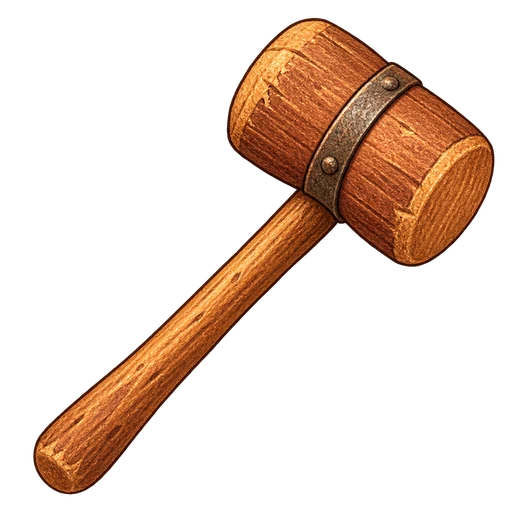
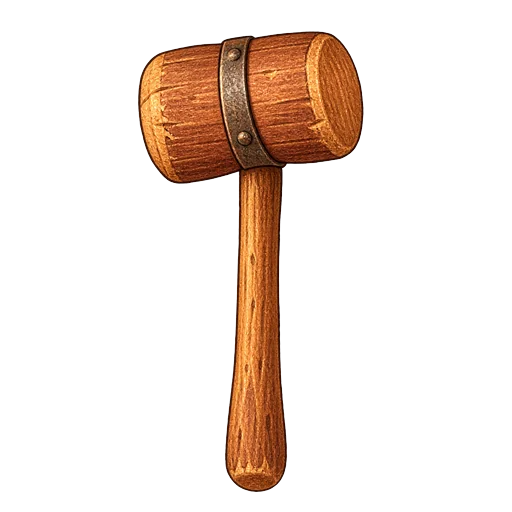
Act 1: Pip on his stool swings onto the toy, as in Chief Toy Officer; the toys you make pile up under the tree
Chief Toy Officer's swing frames, hammers and step stool; the strike is aimed so the hammer
lands on the toy's top, with a spin after each toy. The pile shows the toys you made (keeping
its variety); once the Wrapping Station is bought it stands in the line and every other toy
arrives wrapped. Act 2's clerk gets the same swing (new frames) and stamps down onto the file.

Fixes #3

diff --git a/game/src/stage.js b/game/src/stage.js
@@ -7,7 +7,7 @@ import * as R from './rules.js';
 export const W = 800, H = 600;
 const px = (x) => x * W / 100, py = (y) => y * H / 100;
 let cv, cx, dpr = 1, cssW = 1, cssH = 1;
-const fx = { parts: [], nums: [], rings: [], splats: [], squash: 0, swing: -1, swingT: 0, bob: 0, shake: 0, eyeTo: [0.5, 0.5], eyeAt: [0.5, 0.5], blink: 0,
+const fx = { spinAt: -9, popAt: -9, parts: [], nums: [], rings: [], splats: [], squash: 0, swing: -1, swingT: 0, bob: 0, shake: 0, eyeTo: [0.5, 0.5], eyeAt: [0.5, 0.5], blink: 0,
   flash: 0, presents: [], bellAt: null, recoil: 0, arrivals: {}, dim: 0, noelBright: 0, wakeT: -1, transition: null };
 let spot = { u: 0.1, v: 0.1, from: [0.1, 0.1], to: [0.1, 0.1], t: 0, resting: true };
 let tNow = 0;
@@ -129,22 +129,61 @@ function placeFigures(c, act, list, box, row, S, noel) {
 }
 
 // ---------- Pip and his tool ----------
-function drawPipSwing(c, act, S) {
-  const set = act === 1 ? 'pip-swing' : 'pip-clerk-swing'; const frame = fx.swing >= 0 ? Math.min(3, fx.swing) : 0;
-  const im = img(`sprites/${set}/${frame}`) || img(`sprites/${set}/0`); const fallback = act === 2 ? img('shared/pip-clerk') : null;
-  const x = px(12), w = px(40), y = py(98) - w; // square canvas, 40% wide, foot at 98
-  if (!im) { if (fallback) drawFit(c, fallback, px(20), py(45), px(24), py(53)); return; }
-  c.drawImage(im, x, y, w, w);
-  const piv = data(`sprites/${set}/pivots`); const fr = piv && piv.frames && piv.frames[frame]; if (!fr) return;
-  const s = w / 512; const tool = R.toolIdx(S); const hand = img(toolHandFile(act, tool)); if (!hand) return;
-  let gx = 256, gy = 380, dist = 300, axis = 0, target = 150, ang = fr.angle || 0;
-  if (act === 1) { const h = data('act1/hammers')?.hammers?.[tool + 1]; if (h) { [gx, gy] = h.grip; dist = Math.hypot(h.head[0] - gx, h.head[1] - gy); axis = h.axisAngle || 0; } }
-  else { const st = data('act2/stamps')?.['stamp-' + (tool + 1)]; target = 118; ang = ang * 0.12; if (st) { [gx, gy] = st.grip; dist = Math.hypot(st.face[0] - gx, st.face[1] - gy); } }
-  const ts = s * target / dist; // every tool the same length in the fist
-  c.save(); c.translate(x + fr.pivot[0] * s, y + fr.pivot[1] * s); c.rotate((ang - axis) * Math.PI / 180);
-  c.drawImage(hand, -gx * ts, -gy * ts, 512 * ts, 512 * ts); c.restore();
-  if (fr.fist) { const [fx0, fy0, fw, fh] = fr.fist; c.drawImage(im, fx0 / 512 * im.width, fy0 / 512 * im.height, fw / 512 * im.width, fh / 512 * im.height, x + fx0 * s, y + fy0 * s, fw * s, fh * s); }
+// Pip on his step stool, swinging the current tool onto the job (Chief Toy Officer's swing): the frames' pivots give the
+// fist; on the strike the tool is aimed so its head (hammer) or face (stamp) lands on the job's top, and the job sits where it can.
+const POSE = {
+  1: { foot: 86.2, stool: [23.6, 17, 98.5], toyFoot: 68.5, toyW: 14, toyRange: [46, 62], kind: 'hammer', len: 0.35 },
+  2: { foot: 81.6, stool: [23.6, 17, 93.8], toyFoot: 69, toyW: 11.5, toyRange: [42, 60], kind: 'stamp', len: 0.25 },
+};
+const SWING = [[0, 1], [45, 2], [125, 3], [190, -1]]; // ms -> frame
+function pivotsOf(set) { const d = data(`sprites/${set}/pivots`); if (!d || !d.frames) return null;
+  return d.frames.map((f) => ({ fist: f.pivot || (f.fist && f.fist.length === 2 ? f.fist : null), crop: f.fistCrop || (f.fist && f.fist.length === 4 ? f.fist : null), angle: f.angle || 0 })); }
+function toolSpec(act, tool) {
+  if (act === 1) { const h = data('act1/hammers')?.['hammer-' + (tool + 1)]; return h ? { grip: h.grip, tip: h.head, tipEdge: h.headBottom ?? h.head[1] + 60 } : { grip: [256, 435], tip: [256, 100], tipEdge: 160 }; }
+  const st = data('act2/stamps')?.['stamp-' + (tool + 1)]; return st ? { grip: st.grip, tip: st.face, tipEdge: st.face[1] } : { grip: [254, 219], tip: [254, 480], tipEdge: 480 };
 }
+// where the job sits and the strike angle, for this act, tool and job
+let poseCache = null;
+function poseLayout(act, S) {
+  const P = POSE[act]; const tool = R.toolIdx(S); const key = act + '|' + tool + '|' + S.job;
+  if (poseCache && poseCache.key === key) return poseCache;
+  const set = act === 1 ? 'pip-swing' : 'pip-clerk-swing'; const pv = pivotsOf(set); const w = px(40), x = px(12), y = py(P.foot) - w * (507 / 512); const k = w / 512; // foot = the lowest opaque pixel (row 507)
+  const pipH = w * 0.986, len = P.len * pipH; const spec = toolSpec(act, tool);
+  const jim = img(jobFile(act, S.job)); const jw = px(P.toyW), jh = jim ? jw * jim.height / jim.width : jw; const top = py(P.toyFoot) - jh * 0.92;
+  let cx = px((P.toyRange[0] + P.toyRange[1]) / 2), strike = act === 1 ? 85 : 0;
+  const f2 = pv && pv[2] && pv[2].fist;
+  if (f2) {
+    const fxp = x + f2[0] * k, fyp = y + f2[1] * k;
+    if (P.kind === 'hammer') { // head comes down on the top: the head's centre a little above the top
+      const headHalf = (spec.tipEdge - spec.tip[1]) / (spec.grip[1] - spec.tip[1]) * len; const aimY = top - headHalf * 0.3; const dy = fyp - aimY;
+      const dx = Math.sqrt(Math.max(0, len * len - dy * dy)); cx = Math.min(px(P.toyRange[1]), Math.max(px(P.toyRange[0]), fxp + dx)); strike = Math.atan2(cx - fxp, dy) * 180 / Math.PI;
+    } else { // the stamp's face comes down onto the top of the file
+      const aimY = top + jh * 0.18; const dy = aimY - fyp; const dx = Math.sqrt(Math.max(0, len * len - dy * dy));
+      cx = Math.min(px(P.toyRange[1]), Math.max(px(P.toyRange[0]), fxp + dx)); strike = -Math.atan2(cx - fxp, Math.max(1, dy)) * 180 / Math.PI;
+    }
+  }
+  poseCache = { key, x, y, w, k, len, spec, set, pv, cx, strike, foot: py(P.toyFoot), jw, jh };
+  return poseCache;
+}
+function swingFrame() { if (fx.swing < 0) return 0; const t = fx.swingT * 1000; let f = 0; for (const [ms, fr] of SWING) if (t >= ms) f = fr; return f < 0 ? 0 : f; }
+function drawStool(c, act) { const P = POSE[act]; const st = img('act1/stool'); if (!st) return; const w = px(P.stool[1]), h = w * st.height / st.width; c.drawImage(st, px(P.stool[0]), py(P.stool[2]) - h, w, h); }
+function drawPipSwing(c, act, S) {
+  const L = poseLayout(act, S); const frame = swingFrame();
+  const im = img(`sprites/${L.set}/${frame}`) || img(`sprites/${L.set}/0`);
+  if (!im) { const fb = act === 2 ? img('shared/pip-clerk') : null; if (fb) drawFit(c, fb, px(20), py(40), px(24), py(53)); return; }
+  c.drawImage(im, L.x, L.y, L.w, L.w);
+  const fr = L.pv && L.pv[frame]; const hand = img(toolHandFile(act, R.toolIdx(S))); if (!fr || !fr.fist || !hand) return;
+  let ang = frame === 2 ? L.strike : frame === 3 ? L.strike + (act === 1 ? 8 : -6) : (act === 1 ? fr.angle : fr.angle * 0.15);
+  const sp = (tNow - fx.spinAt) / 0.38; if (act === 1 && sp >= 0 && sp < 1 && frame === 0) ang += 360 * (1 - (1 - sp) ** 2); // the spin after a finished toy
+  const sp1 = L.spec; const hs = L.len / Math.abs(sp1.tip[1] - sp1.grip[1]);
+  c.save(); c.translate(L.x + fr.fist[0] * L.k, L.y + fr.fist[1] * L.k); c.rotate(ang * Math.PI / 180);
+  c.drawImage(hand, -sp1.grip[0] * hs, -sp1.grip[1] * hs, 512 * hs, 512 * hs); c.restore();
+  if (fr.crop) { const [cx0, cy0, cw, ch] = fr.crop, sx = im.width / 512; c.drawImage(im, cx0 * sx, cy0 * sx, cw * sx, ch * sx, L.x + cx0 * L.k, L.y + cy0 * L.k, cw * L.k, ch * L.k); }
+}
+function drawJobAtPose(c, act, S, key) { const L = poseLayout(act, S); const im = img(key || jobFile(act, S.job)); if (!im) return; const sq = fx.squash;
+  const pop = (tNow - fx.popAt) / 0.42; const lift = pop >= 0 && pop < 1 ? Math.sin(pop * Math.PI) * py(4) : 0; const ps = pop >= 0 && pop < 1 ? 1 + 0.15 * Math.sin(pop * Math.PI) : 1;
+  c.save(); c.translate(L.cx, L.foot - lift); c.scale((1 + sq * 0.12) * ps, (1 - sq * 0.16) * ps); c.drawImage(im, -L.jw / 2, -L.jh, L.jw, L.jh); c.restore(); }
+export const jobTop = (act, S) => { const L = poseLayout(act, S); return [L.cx, L.foot - L.jh * 0.6]; };
 function drawPipStill(c, key, S) { const im = img(key); const b = fx.bob; c.save(); const x = px(0), y = py(48), w = px(16), h = py(50);
   c.translate(x + w / 2, y + h); c.scale(1 + b * 0.04, 1 - b * 0.05); drawFit(c, im, -w / 2, -h, w, h); c.restore(); }
 
@@ -160,8 +199,15 @@ function treeLights(c, S, allOn) {
       r(); }
   }
 }
-function pileSlots(n) { let k = 0; for (let s = 1; s <= 40; s++) if (n >= 2 ** (s / 4)) k = s; return k; }
-const PILE = (() => { const r = rand(42); const a = []; for (let i = 0; i < 40; i++) { const row = Math.floor(i / 8); a.push([66 + 4 + (i % 8) * 3.8 + (row % 2) * 1.9 + r() * 1.2, 97 - row * 3.4 - r() * 1, 1 + (i * 7) % 6, 4.2 + r() * 1.6]); } return a; })();
+function pileCount(n) { let k = 0; while (k < 40 && n >= 2 ** ((k + 1) / 4)) k++; return k; }
+const PILE = (() => { const x0 = 66, x1 = 100, y1 = 99; const rows = [[12, 0], [10, 1], [8, 2], [6, 3], [4, 4]]; const slots = []; let k = 0;
+  for (const [n, r] of rows) { const rowW = (x1 - x0) * (1 - r * 0.13), left = x0 + ((x1 - x0) - rowW) / 2 + 1;
+    for (let i = 0; i < n; i++) { const j = ((k * 37) % 7) / 7 - 0.5; slots.push({ cx: left + (rowW - 2) * ((i + 0.5) / n) + j * 0.8, foot: y1 - 0.5 - r * 3.6 + Math.abs(j) * 0.6, size: 5.2 - r * 0.35 + (((k * 53) % 5) / 5) * 1.6, r, i, n }); k++; } }
+  return slots.map((s, i) => [s.r * 100 + Math.abs(s.i - (s.n - 1) / 2), i]).sort((a, b) => a[0] - b[0]).map((a) => slots[a[1]]).slice(0, 40); })();
+function pileImg(entry, i) { return entry >= 100 ? img('act1/presents-' + (1 + (i % 6))) : img(jobFile(1, entry)); }
+function drawPile(c, S, shown) { const list = S.pileToys && S.pileToys.length ? S.pileToys : null;
+  for (let i = shown - 1; i >= 0; i--) { const sl = PILE[i]; const e = list ? list[i % list.length] : 100; const im = pileImg(e, i); if (!im) continue;
+    const w = px(sl.size), h = w * im.height / im.width; c.drawImage(im, px(sl.cx) - w / 2, py(sl.foot) - h, w, h); } }
 function drawWorkshop(c, S, o) {
   cover(c, img('act1/workshop-bg'));
   if (fx.dim) { c.fillStyle = `rgba(5,5,20,${0.55 * fx.dim})`; c.fillRect(0, 0, W, H); }
@@ -184,12 +230,15 @@ function drawWorkshop(c, S, o) {
   if (S.rank >= 3 || S.woke) { if (fx.wakeT >= 0 && tNow - fx.wakeT < 1.2) puff(c, px(92), py(16), tNow - fx.wakeT); drawNoel(c, 1, S); }
   // bench
   const bench = img('act1/bench'); if (bench) { const w = px(40), h = w * bench.height / bench.width; c.drawImage(bench, px(36), py(91) - h, w, h); }
-  // pile
-  const shown = o.pileOverride ?? pileSlots(S.pile || 0);
-  for (let i = 0; i < shown; i++) { const [x, y, k, s] = PILE[i]; const im = img('act1/presents-' + k); if (im) c.drawImage(im, px(x) - px(s) / 2, py(y) - px(s), px(s), px(s)); }
+  // the wrapping station joins the line once it's bought: toys come out of it as presents
+  if (S.own && S.own.includes('wrappingStation')) { const ws = img('act1/upg-wrapping-station'); if (ws) { const w = px(9); c.drawImage(ws, px(62.5), py(93) - w, w, w); } }
+  // the pile: the toys you made (and presents, once wrapped)
+  const shown = o.pileOverride ?? pileCount(S.pile || 0);
+  drawPile(c, S, shown);
   if ((S.pile || 0) > 990 && shown >= 40) tag(c, px(92), py(78), S.pile);
   // the toy on the bench
-  if (!o.noToy) drawJobOnSpot(c, jobFile(1, S.job), 45, 68.5, 14);
+  drawStool(c, 1);
+  if (!o.noToy) drawJobAtPose(c, 1, S);
   drawPipSwing(c, 1, S);
 }
 function drawBob(c, key, [x, y, w, h], i, noel) { const b = noel ? Math.sin(tNow * 6 + i) * 0.6 : Math.abs(Math.sin(tNow * 2.4 + i)) * -2.2; drawFit(c, img(key), px(x), py(y) + b, px(w), py(h)); }
@@ -206,9 +255,10 @@ function drawListRoom(c, S, o) {
   drawRails(c, 2, S, o.legacy);
   const desk = img('act2/clerk-desk'); if (desk) { const w = px(40), h = w * desk.height / desk.width; c.drawImage(desk, px(36), py(91) - h, w, h); }
   // the file on the blotter
-  if (!o.noToy) drawJobOnSpot(c, o.fileKey || jobFile(2, S.job), 45.5, 69, 13);
+  if (!o.noToy) drawJobAtPose(c, 2, S, o.fileKey);
   for (const s of fx.splats) { const k = (tNow - s.t) / 0.6; if (k > 1) continue; c.save(); c.translate(s.x, s.y); c.rotate(s.rot); c.globalAlpha = 1 - k * k; const sc = 1 + (1 - ease(k * 3)) * 0.5; c.scale(sc, sc);
     c.font = '900 30px Nunito'; c.textAlign = 'center'; c.textBaseline = 'middle'; c.lineWidth = 4; c.strokeStyle = s.nice ? '#1d6a32' : '#8a1414'; c.strokeRect(-62, -20, 124, 40); c.fillStyle = s.nice ? '#22803a' : '#a51c1c'; c.fillText(s.nice ? 'NICE' : 'NAUGHTY', 0, 2); c.restore(); }
+  drawStool(c, 2);
   drawPipSwing(c, 2, S);
   // the Nice dial
   const m = R.mul(S); const pct = Math.round(m.nice * 100);
@@ -351,18 +401,18 @@ function drawLucky(c, S, act) {
 export function onTap(S, act, x, y, value, o = {}) {
   fx.squash = 1; fx.swing = 0; fx.swingT = 0; fx.bob = 1; fx.eyeTo = [x / W, y / H]; fx.recoil = 1;
   const big = o.spot; const n = big ? 14 : 7;
-  const tx = act <= 2 ? px(52) : x, ty = act <= 2 ? py(56) : y;
+  const jt = act <= 2 ? jobTop(act, S) : null; const tx = jt ? jt[0] : x, ty = jt ? jt[1] : y;
   for (let i = 0; i < n && fx.parts.length < 40; i++) { const a = Math.random() * Math.PI * 2, s = 80 + Math.random() * 160 * (big ? 1.6 : 1);
     fx.parts.push({ x: tx, y: ty, vx: Math.cos(a) * s, vy: Math.sin(a) * s - 80, t: 0, life: 0.5 + Math.random() * 0.3, col: act === 4 ? '#7affc0' : act === 3 ? '#ffd76a' : act === 2 ? '#fff4c8' : '#ffcf6a' }); }
   fx.nums.push({ x: tx + (Math.random() * 30 - 15), y: ty - 20, t: 0, txt: '+' + fmtShort(value), big });
   if (fx.nums.length > 14) fx.nums.shift();
-  if (act === 2) fx.splats.push({ x: px(52) + Math.random() * 30 - 15, y: py(62) + Math.random() * 10, t: tNow, rot: Math.random() * 0.5 - 0.25, nice: Math.random() < R.mul(S).nice });
+  if (act === 2) fx.splats.push({ x: jobTop(2, S)[0] + Math.random() * 20 - 10, y: jobTop(2, S)[1] + 6 + Math.random() * 8, t: tNow, rot: Math.random() * 0.5 - 0.25, nice: Math.random() < R.mul(S).nice });
   if (fx.splats.length > 4) fx.splats.shift();
   if (act === 3) { fx.bellAt = { x, y, t: tNow }; fx.rings.push({ x, y, t: 0, col: big ? '255,220,90' : '255,214,120', max: big ? 90 : 50 }); }
   if (act === 4) fx.rings.push({ x, y, t: 0, col: '90,255,160', max: 70 });
   if (o.heavy) fx.shake = 0.25;
 }
-export function onJobDone(act, n) { fx.flash = 1; fx.presents.push({ t: 0, n }); if (fx.presents.length > 3) fx.presents.shift(); }
+export function onJobDone(act, n, item) { fx.flash = 1; fx.popAt = tNow; if (n === 1) fx.spinAt = tNow + 0.05; fx.presents.push({ t: 0, n, item }); if (fx.presents.length > 3) fx.presents.shift(); }
 export function onHelperAdded(id) { if (!fx.arrivals[id]) fx.arrivals[id] = tNow; }
 export function onNoelBright() { fx.noelBright = 1; }
 export function onWake() { fx.wakeT = tNow; }
@@ -382,7 +432,7 @@ function drawFx(c, act, dt) {
   // a finished job: a present arcs to the pile (Act 1), a pop elsewhere
   for (const p of fx.presents) p.t += dt; fx.presents = fx.presents.filter((p) => p.t < 0.7);
   for (const p of fx.presents) { const k = p.t / 0.7;
-    if (act === 1) { const im = img('act1/presents-' + (1 + (p.n % 6))); const x = px(52) + (px(84) - px(52)) * k, y = py(56) - Math.sin(k * Math.PI) * 120 + (py(88) - py(56)) * k; if (im) c.drawImage(im, x - 18, y - 18, 36, 36); }
+    if (act === 1) { const im = p.item != null ? pileImg(p.item, p.n) : img('act1/presents-1'); const x0 = poseCache ? poseCache.cx : px(52); const x = x0 + (px(84) - x0) * k, y = py(56) - Math.sin(k * Math.PI) * 120 + (py(88) - py(56)) * k; if (im) { const w = 40, h = w * im.height / im.width; c.drawImage(im, x - w / 2, y - h / 2, w, h); } }
     else { c.save(); c.globalAlpha = 1 - k; c.strokeStyle = act === 4 ? '#7affc0' : '#ffe08a'; c.lineWidth = 5; const [x, y] = act === 2 ? [px(52), py(60)] : act === 3 ? [globeGeom().cx, globeGeom().cy] : [viewport().cx, viewport().cy]; c.beginPath(); c.arc(x, y, 20 + k * 80, 0, Math.PI * 2); c.stroke(); c.restore(); }
     if (p.n > 1 && p.t < 0.6) { c.save(); c.font = '900 26px Nunito'; c.textAlign = 'center'; c.fillStyle = '#ffe27a'; c.strokeStyle = '#3a2415'; c.lineWidth = 4; const t = '×' + fmtShort(p.n); const y = (act <= 2 ? py(46) : py(20)) - p.t * 40; c.strokeText(t, px(52), y); c.fillText(t, px(52), y); c.restore(); }
   }
@@ -390,7 +440,7 @@ function drawFx(c, act, dt) {
 }
 function decay(dt) {
   fx.squash = Math.max(0, fx.squash - dt * 7); fx.bob = Math.max(0, fx.bob - dt * 6); fx.recoil = Math.max(0, fx.recoil - dt * 6); fx.flash = Math.max(0, fx.flash - dt * 4); fx.noelBright = Math.max(0, fx.noelBright - dt * 1.5);
-  if (fx.swing >= 0) { fx.swingT += dt; fx.swing = Math.floor(fx.swingT / 0.04); if (fx.swing > 3) fx.swing = -1; }
+  if (fx.swing >= 0) { fx.swingT += dt; if (fx.swingT >= 0.19) fx.swing = -1; }
   fx.eyeAt[0] += (fx.eyeTo[0] - fx.eyeAt[0]) * Math.min(1, dt * 5); fx.eyeAt[1] += (fx.eyeTo[1] - fx.eyeAt[1]) * Math.min(1, dt * 5);
   if (fx.blink > 0) fx.blink = Math.max(0, fx.blink - dt * 5); else if (Math.random() < dt * 0.25) fx.blink = 1;
   fx.shake = Math.max(0, fx.shake - dt);

diff --git a/game/src/main.js b/game/src/main.js
@@ -117,7 +117,7 @@ function newGame(id) {
   }
   deleteSlot(target); slot = target;
   G = { v: 1, act: 1, S: R.newAct(1), playTime: 0, seen: {}, finished: null, phase: 'play', lastSeen: Date.now(), legacy: {} };
-  G.S.pile = 0; G.begun = false; saveNow(); store.set(slotKey(slot, 'cp1'), G); showActCard();
+  G.S.pile = 0; G.S.pileToys = []; G.begun = false; saveNow(); store.set(slotKey(slot, 'cp1'), G); showActCard();
 }
 function loadSlot(id) {
   const d = saves.load(id); if (!d || !d.S || !d.S.n || !d.act) { toast('This save can\'t be read'); return; }
@@ -211,7 +211,7 @@ let glowHelper = null;
 function handleEvents() {
   const S = G.S; const ev = S.events.splice(0);
   for (const e of ev) {
-    if (e.type === 'done') { if (G.act === 1) S.pile = (S.pile || 0) + e.n; ST.onJobDone(G.act, e.n); A.sfx(['', 'toy-done', 'file-done', 'holdout-won', 'first-contact'][G.act], { vol: G.act === 4 ? 0.35 : 1 }); A.sfx('cookie-clink', { vol: 0.5 }); if (G.act === 1) A.sfx('present-rustle', { vol: 0.5 });
+    if (e.type === 'done') { let item = null; if (G.act === 1) { S.pile = (S.pile || 0) + e.n; item = addToPile(S, e.job, e.n); } ST.onJobDone(G.act, e.n, item); A.sfx(['', 'toy-done', 'file-done', 'holdout-won', 'first-contact'][G.act], { vol: G.act === 4 ? 0.35 : 1 }); A.sfx('cookie-clink', { vol: 0.5 }); if (G.act === 1) A.sfx('present-rustle', { vol: 0.5 });
       if (G.act === 2 && !G.seen.firstFile) { G.seen.firstFile = true; declareGlow = 6; setTicker('You can stop whenever you like, Pip. Nobody does.'); } }
     else if (e.type === 'rank') { A.sfx('fanfare'); if (ACT_TEXT[G.act].speaker(e.rank) === 'santa') setTimeout(() => A.voice('santa-hohoho'), 300); queuePromotion(e.rank); saveSoon(); }
     else if (e.type === 'final') { startFinale(); }
@@ -228,6 +228,16 @@ function handleEvents() {
   if (G.act === 4 && S.rank === 10 && S.locks.length && !G.seen.warn4) { G.seen.warn4 = true; setTicker('Leave the button with me, Pip. Just until the end.'); A.sfx('lock', { vol: 0.5 }); $('#btnDeclare').classList.add('clank'); setTimeout(() => $('#btnDeclare').classList.remove('clank'), 600); }
   refreshBanner();
 }
+// The pile under the tree keeps the toys you made (40 at most, newest replacing older ones); once the Wrapping
+// Station is in the line, every other toy arrives wrapped.
+function addToPile(S, job, n) { if (!S.pileToys) S.pileToys = []; let last = job;
+  for (let k = 0; k < Math.min(3, n); k++) { const wrapped = S.own.includes('wrappingStation') && (S.stats.made + k) % 2 === 0; last = wrapped ? 100 + job : job;
+    if (S.pileToys.length < 40) { S.pileToys.push(last); continue; }
+    // full: a new toy takes the place of one of the most common kind, so the pile keeps its variety
+    const count = {}; for (const t of S.pileToys) { const j = t % 100; count[j] = (count[j] || 0) + 1; }
+    const top = +Object.keys(count).sort((a, b) => count[b] - count[a])[0]; if (top === job && count[job] > 1 && Object.keys(count).length > 1 && (S.stats.made + k) % 3) continue;
+    const spots = []; S.pileToys.forEach((t, i) => t % 100 === top && spots.push(i)); S.pileToys[spots[(S.stats.made * 7 + k) % spots.length]] = last; }
+  return last; }
 function setTicker(t) { G.thinking = t; const el = $('#tickerText'); el.textContent = t; $('#ticker').classList.toggle('empty', !t); A.sfx('noel-speak', { vol: 0.5 }); ST.onNoelBright(); }
 let saveSoonT = null; function saveSoon() { clearTimeout(saveSoonT); saveSoonT = setTimeout(saveNow, 200); }
 function refreshBanner() {

diff --git a/game/src/assets.js b/game/src/assets.js
@@ -18,6 +18,7 @@ export function actFiles(a) {
   for (let i = 0; i < 4; i++) { f.push(toolFile(a, i)); if (a <= 2) f.push(toolHandFile(a, i)); }
   for (const h of ACTS[a].HELP) f.push(helperFile(a, h[0]));
   for (const u of ACTS[a].UPG) f.push(upgFile(a, u[0]));
+  if (a <= 2) f.push('act1/stool');
   if (a === 1) f.push('act1/bench', 'act1/tree', 'act1/tree-star', 'act1/sleigh', 'act1/finale-sky', ...[1, 2, 3, 4, 5, 6].map((i) => `act1/presents-${i}`));
   if (a === 2) f.push('act2/clerk-desk', 'shared/pip-clerk', 'shared/santa-slumped', 'act1/tree-star');
   if (a === 3) f.push('shared/pip-coat', 'act3/moon-hat', 'act3/bow', 'shared/santa-beach', 'act3/globe-map');

diff --git a/design/GAME_DESIGN.md b/design/GAME_DESIGN.md
@@ -239,6 +239,13 @@ Chief Toy Officer, with NOEL and one more factory buildout.
   in front of the painted jars and clear of the tree and its star. It's a small walnut-and-brass
   box with an empty dark lens ring; the eye inside follows the hammer. It starts dusty and dark.
   "Plug In NOEL" wakes it: the dust puffs off and the eye lights.
+- **The swing and the pile (changed for issue #3, as in the published Chief Toy Officer):** Pip stands on
+  his step stool by the bench and uses Chief Toy Officer's swing frames and hammers: the hammer upright at rest,
+  raised high, and brought down so its head lands on the toy's top (the toy sits where the strike reaches),
+  with a spin after each finished toy. The pile under the tree holds **the toys you made** (40 spots, the
+  most common kind giving way to new ones so it keeps its variety). Once the **Wrapping Station** is bought it
+  stands in the line beside the tree and every other toy arrives as a wrapped present. Act 2's clerk stands
+  on the same stool and brings his stamp straight down onto the file.
 - **Tap:** hammer the toy. **Ranks, toys, hammers and upgrades:** Chief Toy Officer's, word for
   word (ranks Assistant Junior Toy Maker … Chief Toy Officer; toys Wooden Tractor … Smartphone;
   hammers Cheap, Heavy 150 at rank 3, Supreme 6,000 at rank 6, Thunder Mallet 40,000 at rank 8;
